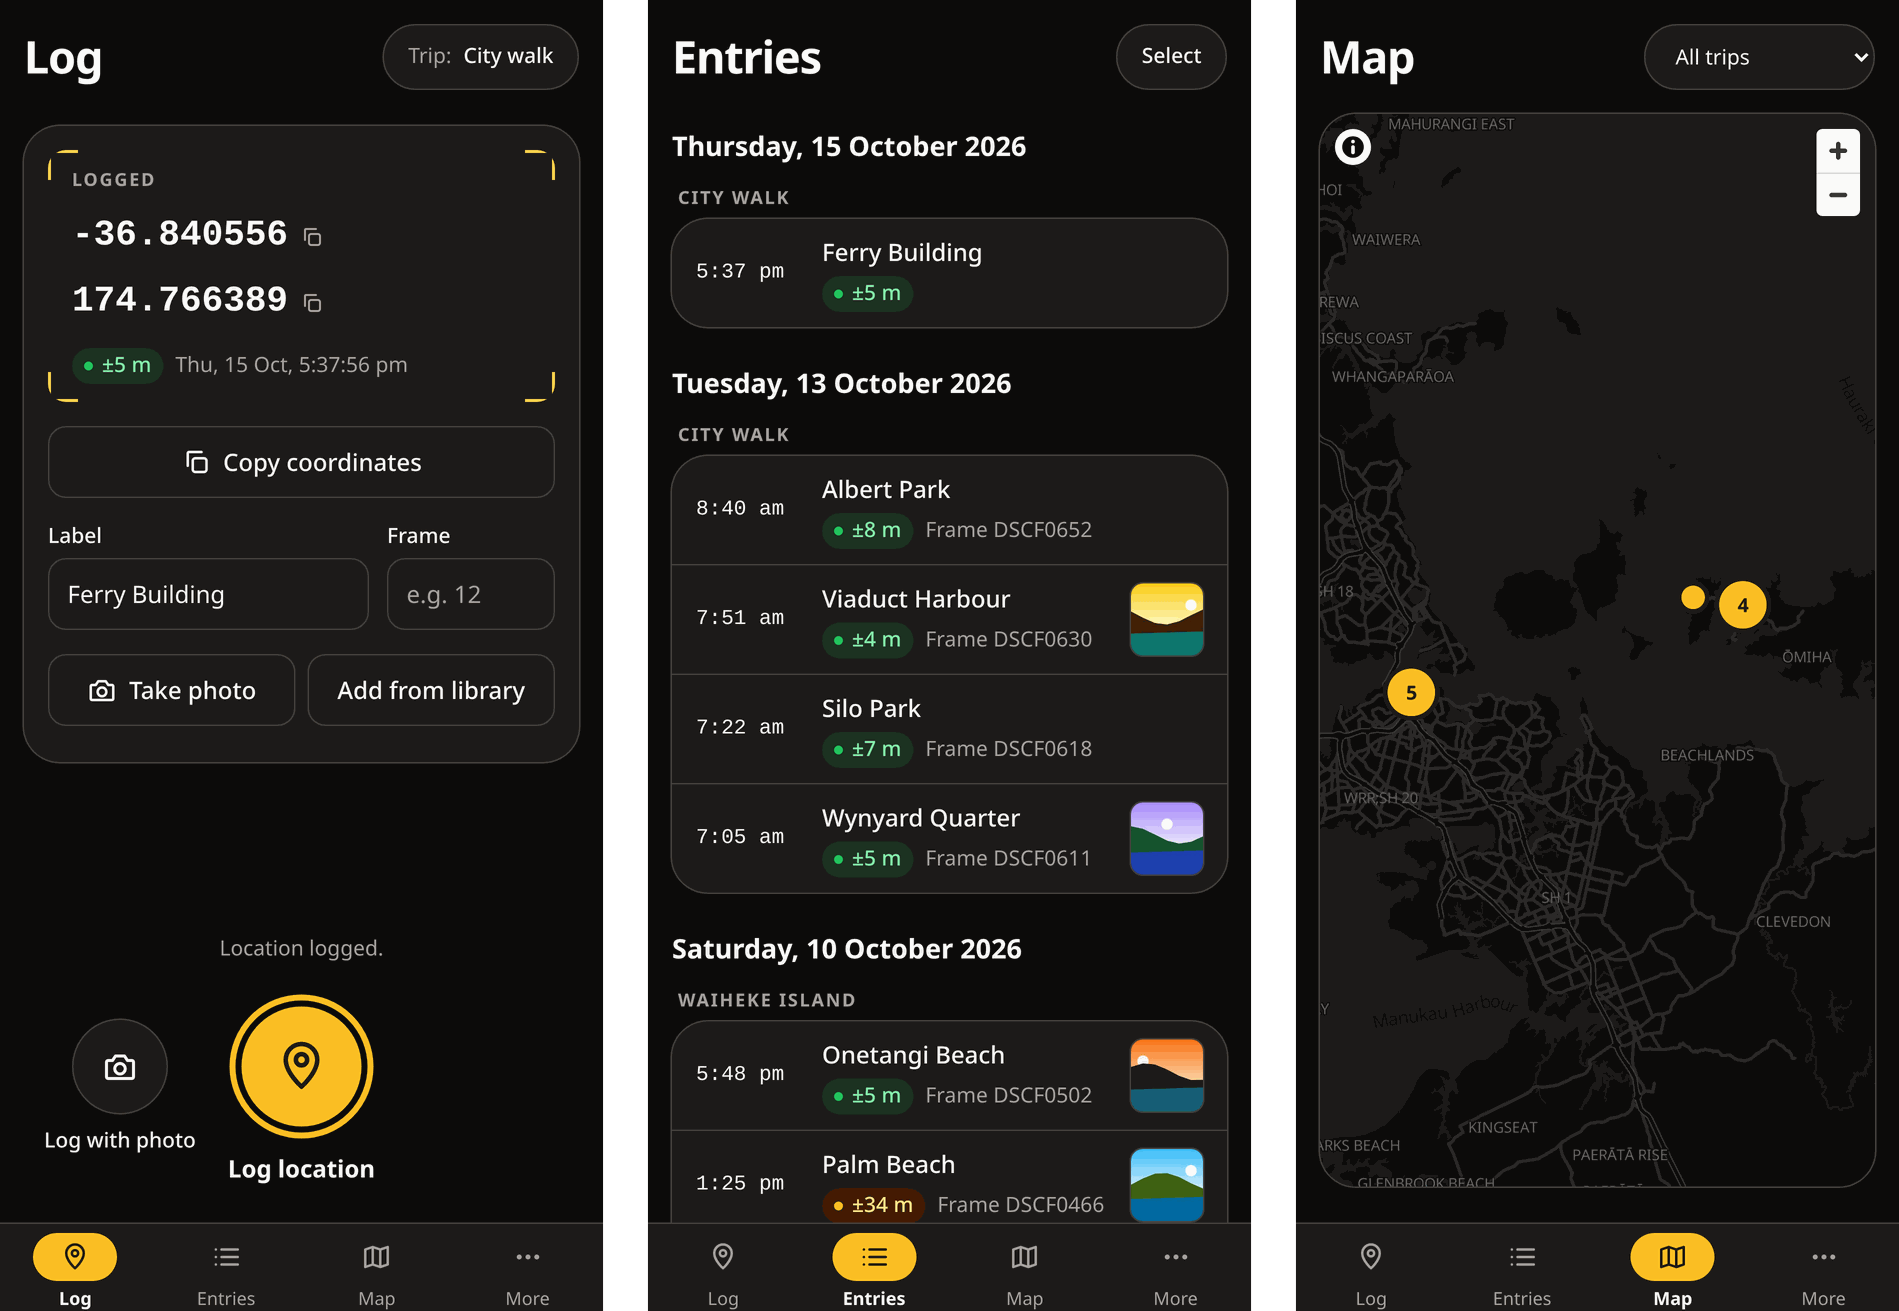
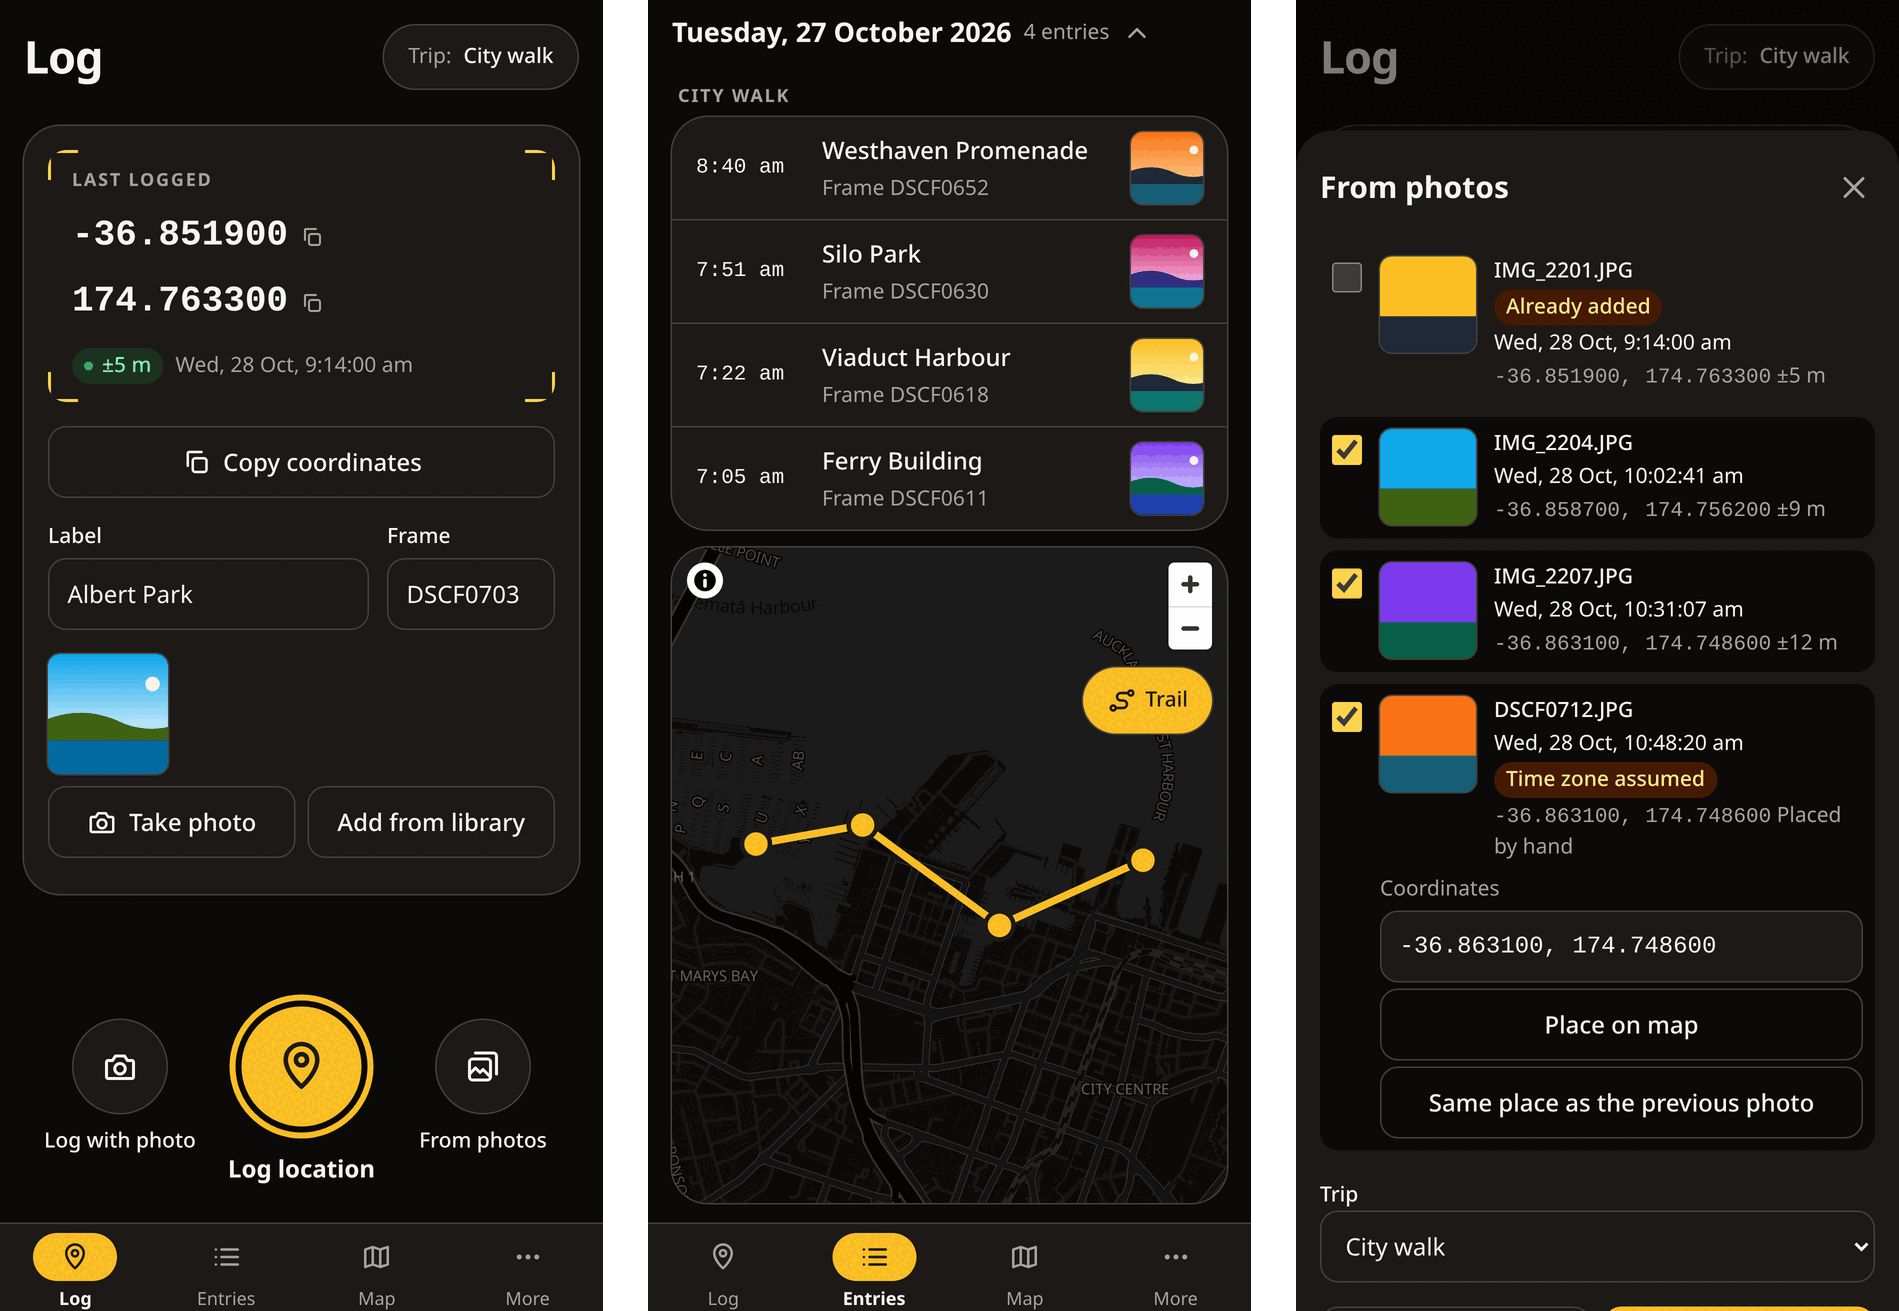
docs: describe From photos, Day maps, the Trail, and editing an entry's time
Retake the README screenshot with the Log screen, a Day map with its Trail, and the From photos review, using made-up entries from Auckland.

diff --git a/README.md b/README.md
@@ -2,13 +2,13 @@
 
 Log where you took a photo, so you can geotag it later.
 
-Hotshoe is a small web app for iPhone, installed to the Home Screen from Safari. Tap one button when you take a photo and it records your location, accuracy, and time. You can attach a quick reference photo from the iPhone camera, then copy the coordinates into any photo site or map app, or export a GPX track for digiKam, Lightroom, or darktable.
+Hotshoe is a small web app for iPhone, installed to the Home Screen from Safari. Tap one button when you take a photo and it records your location, accuracy, and time. You can attach a quick reference photo from the iPhone camera, or add entries afterwards from photos in your library, then copy the coordinates into any photo site or map app, or export a GPX track for digiKam, Lightroom, or darktable.
 
 Your entries stay on your phone. There is no account, no server, and no tracking.
 
 **Open it:** https://xe1af35.github.io/hotshoe/
 
-<img src="docs/screenshots/phone-app.png" width="840" alt="Hotshoe on an iPhone: a location just logged with its accuracy and a label, the entries grouped by day and trip with photo thumbnails, and a map of every entry">
+<img src="docs/screenshots/phone-app.png" width="840" alt="Hotshoe on an iPhone: the last location logged with its accuracy, label, and photo; a day of entries with its map open and the trail joining them; and photos from the library being reviewed before they become entries">
 
 ## Install on iPhone
 
@@ -23,10 +23,11 @@ Hotshoe works offline after the first visit, and updates itself the next time yo
 
 - **Log:** tap **Log location** as you take a photo. Hotshoe waits until the fix is within your accuracy target (20 m unless you change it), then saves. **Use this fix** saves the best fix so far, marked as a weak fix if it missed the target. **Log with photo** also opens the camera for a reference shot.
 - **Label and frame:** type them on the card after logging. Nothing blocks the next log.
+- **From photos:** add entries from photos already in your library, using each photo's own time and location. You review them first: photos already in Hotshoe start unticked, and a photo with no location can be placed by pasting coordinates, copying the previous photo's place, or dropping a pin on a map. A photo with no time zone or shot time gets one worked out, marked so you can check it.
 - **Copy coordinates:** pastes as `-36.848461, 174.763336`, or as degrees, minutes, and seconds if you choose that in Settings. Choose a decimal comma in Settings for apps that want `-36,848461`, and tap either line of an entry's coordinates to copy just that number.
 - **Trips:** pick an active trip on the Log screen and new entries join it. Open a trip on the More tab for its summary: entries and photos, the dates and days it covers, the rough distance in straight lines between entries, and how many weak fixes it has.
-- **Entries:** grouped by day and trip. Tap one to edit it, add photos, or show it on the map. **Select** lets you tick entries and export just those.
-- **Map:** asks before loading, because the map comes from an online service (see Privacy).
+- **Entries:** grouped by day and trip, with a count for each day. Tap one to edit its label, frame, date and time, add photos, or show it on the map. Tap a day's heading for a map of just that day. **Select** lets you tick entries and export just those.
+- **Map:** asks before loading, because the map comes from an online service (see Privacy). **Trail** draws a line through the entries on the map in the order you logged them, so you can see the route you took.
 - **Light or dark:** Hotshoe follows your iPhone's setting. To keep it light or dark whatever the iPhone does, choose **Appearance** in Settings on the More tab.
 
 ## Geotagging your photos
@@ -59,7 +60,7 @@ Hotshoe keeps everything on this iPhone only. Deleting the app deletes your entr
 - Your entries and photos never leave the phone unless you export, share, or back them up yourself.
 - **The map is the one exception.** To draw it, Hotshoe asks [OpenFreeMap](https://openfreemap.org/) for the area on screen, so OpenFreeMap sees that area and your internet address, but not your entries. Hotshoe asks before loading the map, unless you turn on loading it without asking.
 - The app itself is served by GitHub Pages, which sees your internet address when the app is installed or updated.
-- Photos are re-encoded on the phone, so camera metadata such as the photo's own location isn't kept.
+- Photos are re-encoded on the phone, so camera metadata such as the photo's own location isn't kept with them. **From photos** reads a photo's time and location on the phone to make its entry, and nothing else.
 - There are no analytics, cookies, or accounts.
 
 Map data © [OpenStreetMap](https://www.openstreetmap.org/copyright) contributors.
